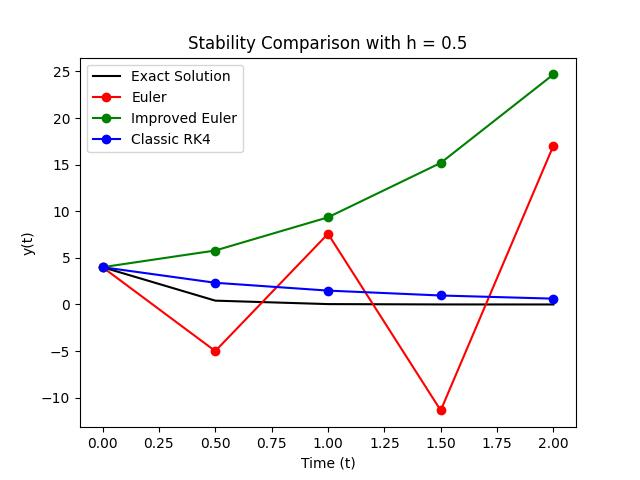
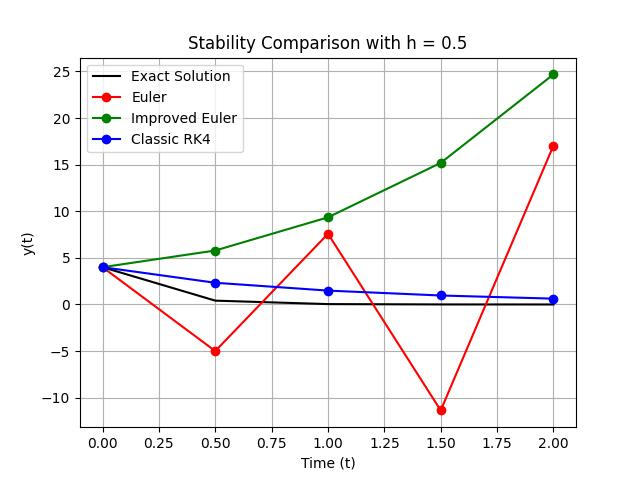
ready for submission

diff --git a/module_ass5.py b/module_ass5.py
@@ -68,12 +68,10 @@ def exact_solution_ode1(t):
     The solution is: y(t) = e^(-5t) * (2t + 4)
 
     Parameters
-    ----------
     t : float or 1D numpy array
         Time value(s) at which to evaluate the solution
 
     Returns
-    -------
     y_exact : float or numpy array
         Exact solution evaluated at t
     """
@@ -86,14 +84,12 @@ def mean_absolute_error(y_exact, y_approx):
     a numerical approximation, excluding the initial condition.
 
     Parameters
-    ----------
     y_exact : 1D numpy array
         Exact solution including initial condition.
     y_approx : 1D numpy array
         Approximate (numerical) solution including initial condition.
 
     Returns
-    -------
     mae : float
         Mean absolute error, excluding the initial condition.
     """
@@ -106,21 +102,16 @@ def mean_absolute_error(y_exact, y_approx):
 
 def derivative_ode1(t, y):
     """
-    Computes dy/dt for the ODE:
-    dy/dt + 5y = 2e^(-5t)
-
-    Rearranged as:
-    dy/dt = 2e^(-5t) - 5y
+    Computes dy/dt for the ODE and rearranges to:
+    dy/dt + 5y = 2e^(-5t) -> dy/dt = 2e^(-5t) - 5y
 
     Parameters
-    ----------
     t : float
         Independent variable (time)
     y : float
         Dependent variable
 
     Returns
-    -------
     dydt : float
         Derivative dy/dt at given t and y
     """
@@ -134,20 +125,18 @@ def euler_step(f, t, y, h):
     Calculate one step of the Euler method.
 
     Parameters
-    ----------
     f : function
-        Derivative function (callable).
+        Derivative function
     t : float
-        Independent variable at start of step.
+        Independent variable at start of step
     y : float
-        Dependent variable at start of step.
+        Dependent variable at start of step
     h : float
-        Step size along independent variable.
+        Step size along independent variable
 
     Returns
-    -------
     y_new : float
-        Dependent variable at end of step.
+        Dependent variable at end of step
     """
     f0 = f(t, y)
     y_new = y + h * f0
@@ -156,23 +145,21 @@ def euler_step(f, t, y, h):
 
 def improved_euler_step(f, t, y, h):
     """
-    Calculate one step of the Improved Euler method.
+    Calculate one step of the Improved Euler method
 
     Parameters
-    ----------
     f : function
-        Derivative function (callable).
+        Derivative function
     t : float
-        Independent variable at start of step.
+        Independent variable at start of step
     y : float
-        Dependent variable at start of step.
+        Dependent variable at start of step
     h : float
-        Step size along independent variable.
+        Step size along independent variable
 
     Returns
-    -------
     y_new : float
-        Dependent variable at end of step.
+        Dependent variable at end of step
     """
     f0 = f(t, y)
     f1 = f(t + h, y + h * f0)
@@ -182,7 +169,7 @@ def improved_euler_step(f, t, y, h):
 
 def classic_rk4_step(f, t, y, h):
     """
-    Calculate one step of the Classic RK4 method.
+    Calculate one step of the Classic RK4 method
 
     Parameters
     ----------
@@ -213,7 +200,6 @@ def explicit_rk_step(f, t, y, h, alpha, beta, gamma):
         Perform a single step of an explicit Runge-Kutta method.
 
     Parameters
-    ----------
     f : function
         Derivative function f(t, y).
     t : float
@@ -230,7 +216,6 @@ def explicit_rk_step(f, t, y, h, alpha, beta, gamma):
         RK matrix from Butcher tableau.
 
     Returns
-    -------
     y_new : float
         New value of dependent variable after one RK step.
     """
@@ -260,7 +245,6 @@ def explicit_rk_solver(f, tspan, y0, h, alpha, beta, gamma):
         Solve a first-order ODE using an explicit Runge-Kutta method.
 
     Parameters
-    ----------
     f : function
         Derivative function f(t, y).
     tspan : list of float
@@ -277,7 +261,6 @@ def explicit_rk_solver(f, tspan, y0, h, alpha, beta, gamma):
         RK matrix from the Butcher tableau.
 
     Returns
-    -------
     t : list of float
         Time values from t_start to t_end (inclusive).
     y : list of float

diff --git a/call_ass5.py b/call_ass5.py
@@ -151,13 +151,14 @@ for h in step_sizes:
         mae = mean_absolute_error(y_exact, np.array(y_approx))
         mae_results[method_name].append(mae)
 
-# Display the results in a formatted table
-print("\nStep Size   Euler MAE     Improved MAE   RK4 MAE")
+# Display all the results
+print("\nMAE results each of the different step sizes:")
 for i, h in enumerate(step_sizes):
-    euler_mae = mae_results["Euler"][i]
-    improved_mae = mae_results["Improved"][i]
-    rk4_mae = mae_results["RK4"][i]
-    print(f"{h:<10} {euler_mae:<13.6e} {improved_mae:<13.6e} {rk4_mae:.6e}")
+    print("h =", h)
+    print("  Euler MAE:    ", mae_results["Euler"][i])
+    print("  Improved MAE: ", mae_results["Improved"][i])
+    print("  RK4 MAE:      ", mae_results["RK4"][i])
+    print()
 
 # --------------------------------------------------------------------------------------------------------------
 # Code and comments for Task 3.4 Investigating RK stability goes here
@@ -224,11 +225,11 @@ plt.figure()
 plt.plot(t_exact, y_exact, 'k-', label='Exact Solution')
 
 #Numerical methods
-plt.plot(*solutions["Euler"], 'ro-', label="Euler")
-plt.plot(*solutions["Improved"], 'go-', label="Improved Euler")
-plt.plot(*solutions["RK4"], 'bo-', label="Classic RK4")
-
-# Add labels and legend
+plt.plot(*solutions["Euler"], 'r' 'o-', label="Euler")
+plt.plot(*solutions["Improved"], 'g' 'o-', label="Improved Euler")
+plt.plot(*solutions["RK4"], 'b' 'o-', label="Classic RK4")
+# Add labels
+plt.grid(True)
 plt.title("Stability Comparison with h = 0.5")
 plt.xlabel("Time (t)")
 plt.ylabel("y(t)")
